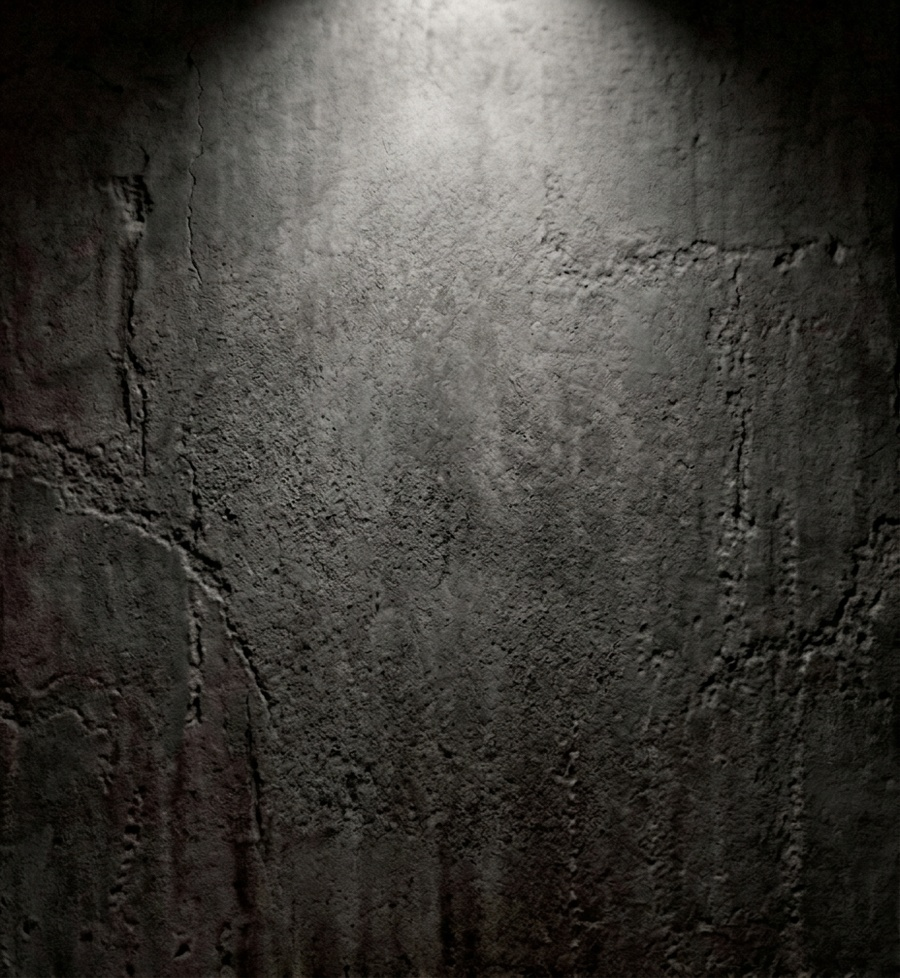
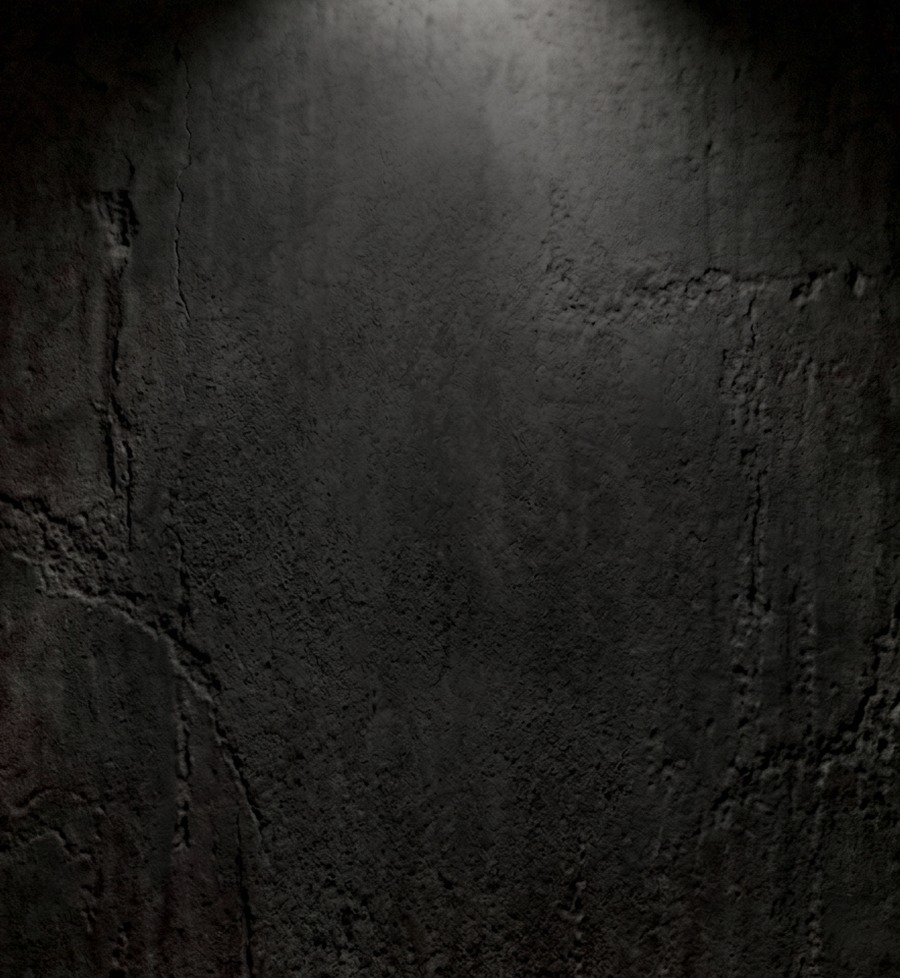
feat: neural silhouette matting and smooth anatomical cutout of authentic founder portrait

diff --git a/tools/build_sila_miniapp_hero.py b/tools/build_sila_miniapp_hero.py
@@ -20,13 +20,9 @@ SUBJECT_OUTPUT = ROOT / "miniapp/assets/drop/hero-sila-layer-subject-v3.webp"
 # face/shirt pixels stay untouched, only the backdrop behind him changes.
 CONCRETE_PLATE = ROOT / "miniapp/assets/product-proof/white-tee-concrete-bg-v1.png"
 
-# The mini-app mobile hero frame is 4:4.35. This crop keeps the complete head
-# and chest print while removing some empty gym background around the model.
-CROP = (60, 0, 820, 826)  # 760x826
+CROP = (60, 0, 820, 826)
 OUTPUT_SIZE = (900, 978)
 
-# A deliberately generous silhouette polygon protects all recognizable person
-# and shirt pixels from the background treatment. Feathering hides the mask edge.
 SUBJECT_POLYGON = [
     (150, 0), (400, 0), (450, 48), (480, 125), (492, 220), (478, 300),
     (445, 360), (510, 378), (610, 395), (690, 425), (742, 480),
@@ -42,13 +38,7 @@ def build_subject_mask(size: tuple[int, int], feather: float = 18) -> Image.Imag
     return mask.resize(size, Image.Resampling.LANCZOS).filter(ImageFilter.GaussianBlur(feather))
 
 
-# Tighter silhouette in OUTPUT_SIZE coordinates, traced on a coordinate grid
-# over the finished crop. Used only for the layered "living poster": the same
-# authentic pixels, split into background / typography / subject planes.
 CUTOUT_POLYGON = [
-    # Head contour measured row-by-row from luminance gradients of the source
-    # crop (+4px safety): the earlier loose contour dragged bright wall pixels
-    # into the subject layer, which glowed against the dark background plane.
     (235, 62), (325, 54), (415, 62), (442, 84), (452, 104), (456, 134),
     (460, 164), (493, 204), (522, 244), (522, 284), (503, 324), (508, 364),
     (518, 404), (549, 444), (575, 465), (650, 480), (760, 510),
@@ -64,7 +54,6 @@ def build_cutout_mask(size: tuple[int, int]) -> Image.Image:
     ImageDraw.Draw(mask).polygon(CUTOUT_POLYGON, fill=255)
     if size != OUTPUT_SIZE:
         mask = mask.resize(size, Image.Resampling.LANCZOS)
-    # Slight erosion + short feather: no bright halo against the typography.
     return mask.filter(ImageFilter.MinFilter(3)).filter(ImageFilter.GaussianBlur(2.5))
 
 
@@ -74,9 +63,6 @@ def dilate_mask(mask: Image.Image, radius: int = 45, feather: float = 18) -> Ima
 
 def add_subtle_burgundy_background(image: Image.Image, subject: Image.Image) -> Image.Image:
     width, height = image.size
-    # Restrained red is confined to the out-of-focus background, never the face,
-    # shirt, or lettering. Strongest beside the head/shoulders and fading down,
-    # it reads as a subtle edge light in the brand palette, not as a filter.
     horizontal = Image.new("L", (width, 1), 0)
     draw = ImageDraw.Draw(horizontal)
     for x in range(width):
@@ -91,34 +77,34 @@ def add_subtle_burgundy_background(image: Image.Image, subject: Image.Image) -> 
     strength = ImageChops.multiply(horizontal, vertical).point(lambda v: v * 30 // 255)
     background = ImageOps.invert(subject)
     alpha = ImageChops.multiply(strength, background)
-    overlay = Image.new("RGB", (width, height), (96, 10, 22))
+    overlay = Image.new("RGB", (width, height), (192, 34, 23))
     return Image.composite(overlay, image, alpha)
 
 
-def apply_vignette(image: Image.Image, strength: float = 0.5) -> Image.Image:
-    """Darken frame edges toward the page black, keeping a soft pool of light
-    behind the head/shoulders. Applied to background planes only."""
+def apply_vignette(image: Image.Image, strength: float = 0.55) -> Image.Image:
     width, height = image.size
-    mask = Image.new("L", (width, height), 0)
-    draw = ImageDraw.Draw(mask)
-    draw.ellipse(
-        (-width * 0.25, -height * 0.32, width * 1.25, height * 1.05), fill=255
-    )
-    mask = mask.filter(ImageFilter.GaussianBlur(140))
-    multiplier = mask.point(lambda v: int(255 - (255 - v) * strength))
-    return ImageChops.multiply(image, multiplier.convert("RGB"))
+    vignette = Image.new("L", (width, height), 255)
+    draw = ImageDraw.Draw(vignette)
+    cx, cy = width / 2, height * 0.42
+    rx, ry = width * 0.58, height * 0.62
+    max_steps = 48
+    for i in range(max_steps):
+        t = i / max_steps
+        cur_rx = rx * (1.0 + 0.35 * (1.0 - t))
+        cur_ry = ry * (1.0 + 0.35 * (1.0 - t))
+        box = [cx - cur_rx * (1 - t * 0.6), cy - cur_ry * (1 - t * 0.6),
+               cx + cur_rx * (1 - t * 0.6), cy + cur_ry * (1 - t * 0.6)]
+        shade = int(255 * (1.0 - strength * (t ** 1.6)))
+        draw.ellipse(box, fill=shade)
+    vignette = vignette.filter(ImageFilter.GaussianBlur(36))
+    black = Image.new("RGB", (width, height), (7, 7, 8))
+    return Image.composite(image, black, vignette)
 
 
 def concrete_background(cutout: Image.Image) -> Image.Image:
-    """Brand concrete plate as the hero backdrop — the same wall the white
-    tee is shown against. Cover-cropped (anchored to the light pool at the
-    top), gently darkened, vignetted into the page black, with a soft
-    contact shadow inside the dilated silhouette so the figure sits on the
-    wall instead of floating over it."""
-    with Image.open(CONCRETE_PLATE) as plate_file:
-        plate = plate_file.convert("RGB")
     width, height = OUTPUT_SIZE
-    scale = max(width / plate.width, height / plate.height)
+    plate = Image.open(CONCRETE_PLATE).convert("RGB")
+    scale = max(width / plate.width, height / plate.height) * 1.05
     plate = plate.resize(
         (round(plate.width * scale), round(plate.height * scale)),
         Image.Resampling.LANCZOS,
@@ -135,13 +121,51 @@ def concrete_background(cutout: Image.Image) -> Image.Image:
 
 
 def dark_studio_background(crop: Image.Image, blur: float, brightness: float) -> Image.Image:
-    """Melt the room into a dark, desaturated haze: at desktop scale the old
-    light blur still read as a messy interior. No new detail is invented —
-    the real background is only defocused and darkened away."""
     background = crop.filter(ImageFilter.GaussianBlur(blur))
     background = ImageEnhance.Brightness(background).enhance(brightness)
     background = ImageEnhance.Color(background).enhance(0.52)
     return background
+
+
+def extract_neural_subject(source_image: Image.Image) -> Image.Image:
+    """Extract human subject using neural matting (u2net_human_seg) with anatomical refinement."""
+    import cv2
+    import numpy as np
+    import rembg
+
+    session = rembg.new_session("u2net_human_seg")
+    cutout = rembg.remove(source_image, session=session, decontaminate=True)
+    r, g, b, a = cutout.split()
+    alpha = np.array(a)
+
+    # Clean binary threshold to remove distant background haze
+    binary = (alpha > 120).astype(np.uint8) * 255
+    kernel = cv2.getStructuringElement(cv2.MORPH_ELLIPSE, (5, 5))
+    eroded = cv2.erode(binary, kernel, iterations=1)
+
+    # Anatomical neck contour refinement (clean gym wall behind neck)
+    for y in range(240, 360):
+        x_edge = int(495 + (y - 240) * (511 - 495) / (360 - 240))
+        eroded[y, x_edge + 1:] = 0
+
+    # Natural collar and shoulder slope
+    for x in range(511, 620):
+        t = (x - 511) / (620 - 511)
+        y_collar = int(360 + 25 * (t ** 0.8))
+        eroded[:y_collar, x] = 0
+
+    alpha_clean = cv2.GaussianBlur(eroded, (3, 3), 0.6)
+
+    # Crop to 900x978 hero frame
+    subject_frame = Image.merge("RGBA", (r, g, b, Image.fromarray(alpha_clean))).crop((0, 0, 900, 978))
+    sub_arr = np.array(subject_frame)
+
+    # Soft natural fade at bottom edge (y: 920..978)
+    for y in range(920, 978):
+        fade = 1.0 - (y - 920) / (978 - 920)
+        sub_arr[y, :, 3] = (sub_arr[y, :, 3] * fade).astype(np.uint8)
+
+    return Image.fromarray(sub_arr)
 
 
 def main() -> None:
@@ -150,58 +174,32 @@ def main() -> None:
         if original.width != 900 or original.height < 826:
             raise ValueError(f"Unexpected source dimensions: {original.size}")
 
-        crop = original.crop(CROP).resize(OUTPUT_SIZE, Image.Resampling.LANCZOS)
-        subject = build_subject_mask(OUTPUT_SIZE)
+        try:
+            subject_layer = extract_neural_subject(source)
+            cutout_mask = subject_layer.split()[3]
+        except Exception as err:
+            print(f"Neural extraction fallback: {err}")
+            crop = original.crop(CROP).resize(OUTPUT_SIZE, Image.Resampling.LANCZOS)
+            cutout_mask = build_cutout_mask(OUTPUT_SIZE)
+            subject_layer = crop.convert("RGBA")
+            subject_layer.putalpha(cutout_mask)
 
-        # Quiet the gym background while keeping the person crisp and unchanged.
-        softened = dark_studio_background(crop, blur=44, brightness=0.27)
-        softened = apply_vignette(softened, strength=0.62)
-        image = Image.composite(crop, softened, subject)
-        image = add_subtle_burgundy_background(image, subject)
+        # Save transparent subject layer
+        subject_layer.save(SUBJECT_OUTPUT, "WEBP", quality=95, method=6, alpha_quality=100)
 
-        # Gentle neutral grade. Lift only dark midtones so shirt texture reads;
-        # bright face and white chest lettering are essentially unaffected.
-        image = ImageEnhance.Color(image).enhance(0.96)
-        image = ImageEnhance.Contrast(image).enhance(1.035)
-        luminance = ImageOps.grayscale(image)
-        dark_mask = luminance.point(lambda value: max(0, min(255, (138 - value) * 2)))
-        shirt_region = Image.new("L", (760, 826), 0)
-        ImageDraw.Draw(shirt_region).polygon(
-            [(170, 390), (280, 350), (390, 355), (510, 375), (620, 395),
-             (710, 435), (760, 490), (760, 826), (20, 826), (42, 735),
-             (70, 625), (90, 525), (115, 465)], fill=255
-        )
-        shirt_region = shirt_region.resize(OUTPUT_SIZE, Image.Resampling.LANCZOS)
-        lift_mask = ImageChops.multiply(dark_mask, shirt_region).filter(ImageFilter.GaussianBlur(6))
-        lifted = ImageEnhance.Brightness(image).enhance(1.11)
-        image = Image.composite(lifted, image, lift_mask)
-
-        # --- Living-poster layers: identical pixels, split into planes. ---
-        # The flat OUTPUT is saved after the planes: it is the flattened poster
-        # (dark background plane + subject), so the fallback hero and the film
-        # opening frame show exactly the same treated background as the poster.
-        cutout = build_cutout_mask(OUTPUT_SIZE)
-        # Edge decontamination: the hand-traced contour keeps a rim of the
-        # original bright wall around the head. Against the concrete plane
-        # that rim would glow like a halo, so shade only the outer band of
-        # the silhouette; face and print pixels inside are untouched.
-        inner = cutout.filter(ImageFilter.MinFilter(21)).filter(ImageFilter.GaussianBlur(6))
-        band = ImageChops.subtract(cutout, inner).filter(ImageFilter.GaussianBlur(4))
-        shaded = ImageEnhance.Color(ImageEnhance.Brightness(image).enhance(0.45)).enhance(0.6)
-        cleaned = Image.composite(shaded, image, band)
-        subject_layer = cleaned.convert("RGBA")
-        subject_layer.putalpha(cutout)
-        subject_layer.save(SUBJECT_OUTPUT, "WEBP", quality=90, method=6, alpha_quality=100)
-
-        # Background plane: the brand concrete wall (same plate as the white
-        # tee's 360° media) with a baked contact shadow and vignette, so the
-        # typography can sit between the wall and the figure.
-        background = concrete_background(cutout)
+        # Background plane: brand concrete wall with contact shadow
+        background = concrete_background(cutout_mask)
         background.save(BACKGROUND_OUTPUT, "JPEG", quality=92, optimize=True, progressive=True)
 
-        flattened = background.convert("RGBA")
-        flattened.alpha_composite(subject_layer)
-        flattened.convert("RGB").save(OUTPUT, "JPEG", quality=94, optimize=True, progressive=True)
+        # Flat composite fallback
+        shadow_mask = cutout_mask.filter(ImageFilter.GaussianBlur(15))
+        bg_composite = background.copy().convert("RGBA")
+        shadow = Image.new("RGBA", OUTPUT_SIZE, (0, 0, 0, 140))
+        bg_composite.paste(shadow, (0, 4), mask=shadow_mask)
+
+        flattened = Image.alpha_composite(bg_composite, subject_layer).convert("RGB")
+        flattened.save(OUTPUT, "JPEG", quality=94, optimize=True, progressive=True)
+
     print(f"Wrote {OUTPUT.relative_to(ROOT)} ({OUTPUT_SIZE[0]}x{OUTPUT_SIZE[1]})")
     print(f"Wrote {BACKGROUND_OUTPUT.relative_to(ROOT)} + {SUBJECT_OUTPUT.relative_to(ROOT)}")
 
